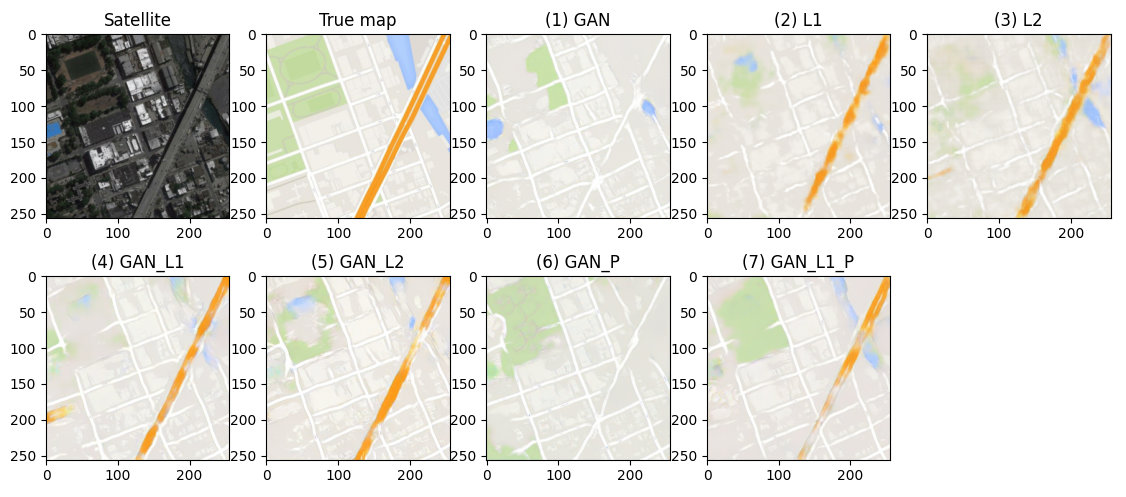
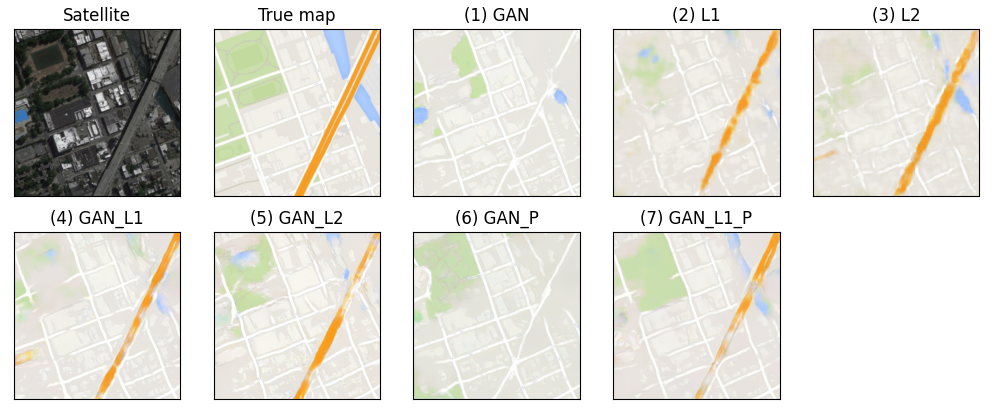
Modify multi eval

diff --git a/multi_eval.py b/multi_eval.py
@@ -21,11 +21,15 @@ figure, axis = plt.subplots(2, 5)
 
 img_satellite = convert_tensor_into_image(satellite[0])
 axis[0, 0].imshow(img_satellite)
-axis[0, 0].set_title("Satellite") 
+axis[0, 0].set_title("Satellite")
+axis[0, 0].xaxis.set_visible(False) 
+axis[0, 0].yaxis.set_visible(False) 
 
 img_map = convert_tensor_into_image(maps[0])
 axis[0, 1].imshow(img_map)
 axis[0, 1].set_title("True map") 
+axis[0, 1].xaxis.set_visible(False) 
+axis[0, 1].yaxis.set_visible(False) 
 
 c = 0
 for path in path_list:
@@ -48,9 +52,14 @@ for path in path_list:
     else:
         r = 0
 
-    axis[r, (2 + c)%5 ].imshow(img_generated)
+    axis[r, (2 + c)%5].imshow(img_generated)
     axis[r, (2 + c)%5].set_title("("+str(c+1)+") "+path[:-4]) 
+    axis[r, (2 + c)%5].xaxis.set_visible(False) 
+    axis[r, (2 + c)%5].yaxis.set_visible(False) 
 
     c += 1
+
+axis[1, 4].xaxis.set_visible(False) 
+axis[1, 4].yaxis.set_visible(False)
 
 plt.show()
